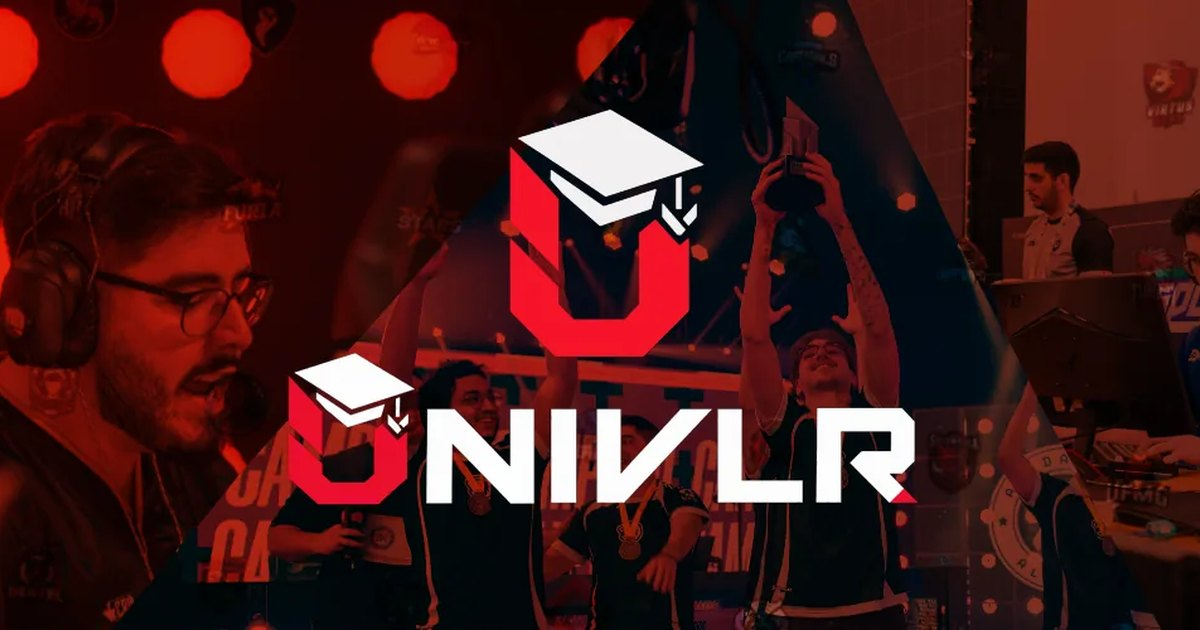
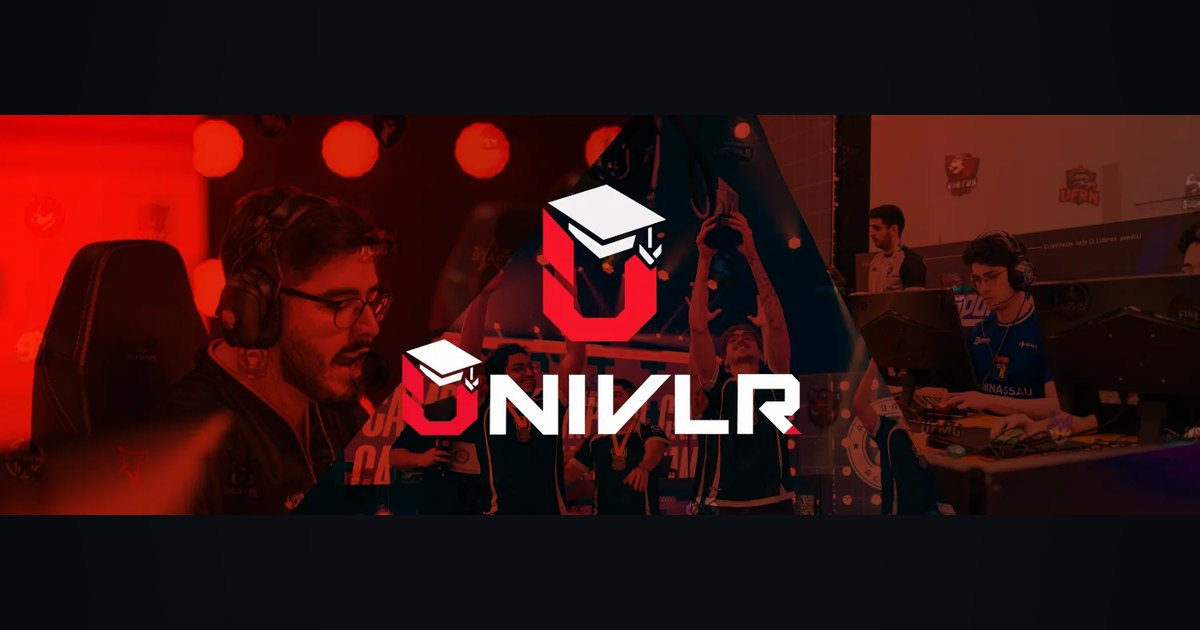
share: capa larga cabe inteira no card, em vez de ser cortada
O gerador do preview de link preenchia 1200x630 recortando pelo centro,
partindo do pressuposto de que toda capa e ~2:1 - ali o corte e de 5% e
ninguem nota. As capas 3:1 perdiam 37% da largura: no card do MVP do
JUBS o medalhao entrava sem a borda esquerda e o "2026" saia cortado
pela direita.

Agora o corte so acontece quando cabe em 12%; acima disso a arte entra
inteira, centrada sobre o mesmo fundo de marca do cartao do site. Quem
desenhou a capa ve a capa no WhatsApp, e nao um pedaco dela.

Conserta tambem a materia de boas-vindas, que tem capa 3:1 e vinha
cortada do mesmo jeito desde 30/08. A previa do JUBS e 2:1, continua
preenchendo e saiu byte a byte igual.

diff --git a/scripts/build_share_images.py b/scripts/build_share_images.py
@@ -57,14 +57,31 @@ def cartao_do_site(destino):
     return destino
 
 
+# Quanto o recorte pode comer antes de a capa caber inteira em vez de preencher.
+# A 2:1 contra 1,91:1 o corte e de 5% e ninguem nota; a capa 3:1 do MVP do JUBS
+# perdia 37% da largura - o medalhao entrava sem a borda e o "2026" saia pela
+# direita. Preencher e melhor quando cabe; quando nao cabe, o card tem que
+# mostrar a arte que o autor desenhou, e nao um pedaco dela.
+CORTE_TOLERADO = 0.12
+
+
 def cartao_da_capa(origem, destino):
-    """Recorta uma capa de materia para 1,91:1, pelo centro."""
+    """Capa de materia em 1,91:1: preenche quando o corte e pequeno, senao cabe inteira."""
     capa = Image.open(origem).convert("RGB")
-    escala = max(L / capa.width, A / capa.height)
-    capa = capa.resize((round(capa.width * escala), round(capa.height * escala)), Image.LANCZOS)
-    esq, topo = (capa.width - L) // 2, (capa.height - A) // 2
-    capa = capa.crop((esq, topo, esq + L, topo + A))
-    capa.save(destino, "JPEG", quality=86, optimize=True)
+    preencher = max(L / capa.width, A / capa.height)
+    caber = min(L / capa.width, A / capa.height)
+    perda = 1 - caber / preencher
+
+    if perda <= CORTE_TOLERADO:
+        capa = capa.resize((round(capa.width * preencher), round(capa.height * preencher)), Image.LANCZOS)
+        esq, topo = (capa.width - L) // 2, (capa.height - A) // 2
+        cartao = capa.crop((esq, topo, esq + L, topo + A))
+    else:
+        arte = capa.resize((round(capa.width * caber), round(capa.height * caber)), Image.LANCZOS)
+        cartao = fundo_da_marca()
+        cartao.paste(arte, ((L - arte.width) // 2, (A - arte.height) // 2))
+
+    cartao.save(destino, "JPEG", quality=86, optimize=True)
     return destino
 
 
